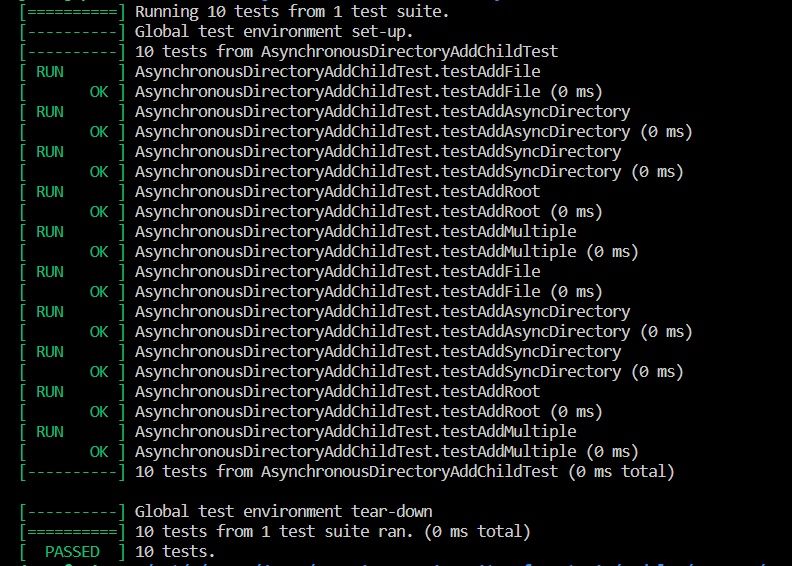
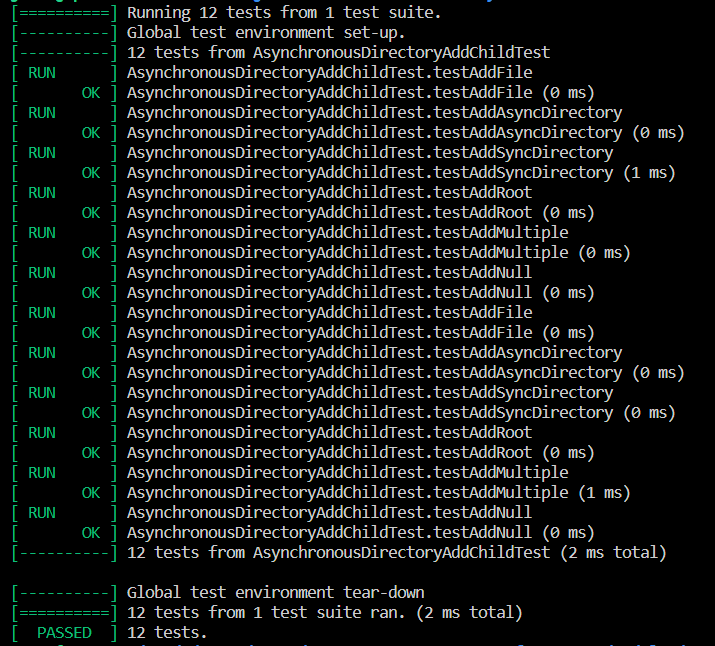
Completed Testing Task 7

diff --git a/Prac 4/Task 7/AsyncDir_addChildTest.cpp b/Prac 4/Task 7/AsyncDir_addChildTest.cpp
@@ -94,7 +94,8 @@ namespace
         EXPECT_EQ(3, d->getChildrenCount());
         d->addChild(new AsynchronousDirectory("d2"));
         EXPECT_EQ(4, d->getChildrenCount());
-        try {
+        try
+        {
             d->addChild(new SynchronousDirectory("d3"));
             FAIL();
         }
@@ -107,6 +108,27 @@ namespace
             FAIL();
         }
         EXPECT_EQ(4, d->getChildrenCount());
+        delete d;
+    }
+
+    TEST(AsynchronousDirectoryAddChildTest, testAddNull)
+    {
+        AsynchronousDirectory *d = new AsynchronousDirectory("d");
+        EXPECT_EQ(0, d->getChildrenCount());
+        try
+        {
+            d->addChild(NULL);
+            FAIL();
+        }
+        catch (std::invalid_argument &e)
+        {
+            EXPECT_EQ(e.what(), std::string("Cannot add a null node"));
+        }
+        catch (...)
+        {
+            FAIL();
+        }
+        EXPECT_EQ(0, d->getChildrenCount());
         delete d;
     }
 }

diff --git a/Prac 4/PDF/u21434159_Prac4.tex b/Prac 4/PDF/u21434159_Prac4.tex
@@ -192,6 +192,26 @@ followed by a screenshot of the produced output.
             EXPECT_EQ(4, d->getChildrenCount());
             delete d;
         }
+        TEST(AsynchronousDirectoryAddChildTest, testAddNull)
+    {
+        AsynchronousDirectory *d = new AsynchronousDirectory("d");
+        EXPECT_EQ(0, d->getChildrenCount());
+        try
+        {
+            d->addChild(NULL);
+            FAIL();
+        }
+        catch (std::invalid_argument &e)
+        {
+            EXPECT_EQ(e.what(), std::string("Cannot add a null node"));
+        }
+        catch (...)
+        {
+            FAIL();
+        }
+        EXPECT_EQ(0, d->getChildrenCount());
+        delete d;
+    }
     }
 \end{lstlisting}
 \includegraphics[width=0.85\textwidth]{Task7.png}

diff --git a/Prac 4/Task 7/SynchronousDirectory.cpp b/Prac 4/Task 7/SynchronousDirectory.cpp
@@ -23,6 +23,8 @@ SynchronousDirectory::~SynchronousDirectory()
 
 void SynchronousDirectory::addChild(Node *child)
 {
+    if (child == NULL)
+        __throw_invalid_argument("Cannot add a null node");
     if ((child->getType() != "File") && (!child->isSynchronous() && child->getType() != "Directory"))
         __throw_invalid_argument("Cannot add an asynchronous node to a synchronous directory");
     Directory::addChild(child);
@@ -103,6 +105,5 @@ void SynchronousDirectory::setState(State *state)
             f->setState(directoryState->children->at(i));
             this->addChild(f);
         }
-
     }
 }

diff --git a/Prac 4/Task 7/AsynchronousDirectory.cpp b/Prac 4/Task 7/AsynchronousDirectory.cpp
@@ -21,6 +21,8 @@ AsynchronousDirectory::~AsynchronousDirectory()
 
 void AsynchronousDirectory::addChild(Node *child)
 {
+    if (child == NULL)
+        __throw_invalid_argument("Cannot add a null node");
     if ((child->getType() != "File") && (child->isSynchronous()))
         __throw_invalid_argument("Cannot add a synchronous node to an asynchronous directory");
     Directory::addChild(child);

diff --git a/Prac 4/Task 7/Directory.cpp b/Prac 4/Task 7/Directory.cpp
@@ -20,6 +20,8 @@ Directory::~Directory()
 
 void Directory::addChild(Node *child)
 {
+    if (child == NULL)
+        throw invalid_argument("Cannot add a null node");
     children->push_back(child);
     child->setParent(this);
     this->lastModified = chrono::duration_cast<chrono::milliseconds>(chrono::system_clock::now().time_since_epoch()).count();
